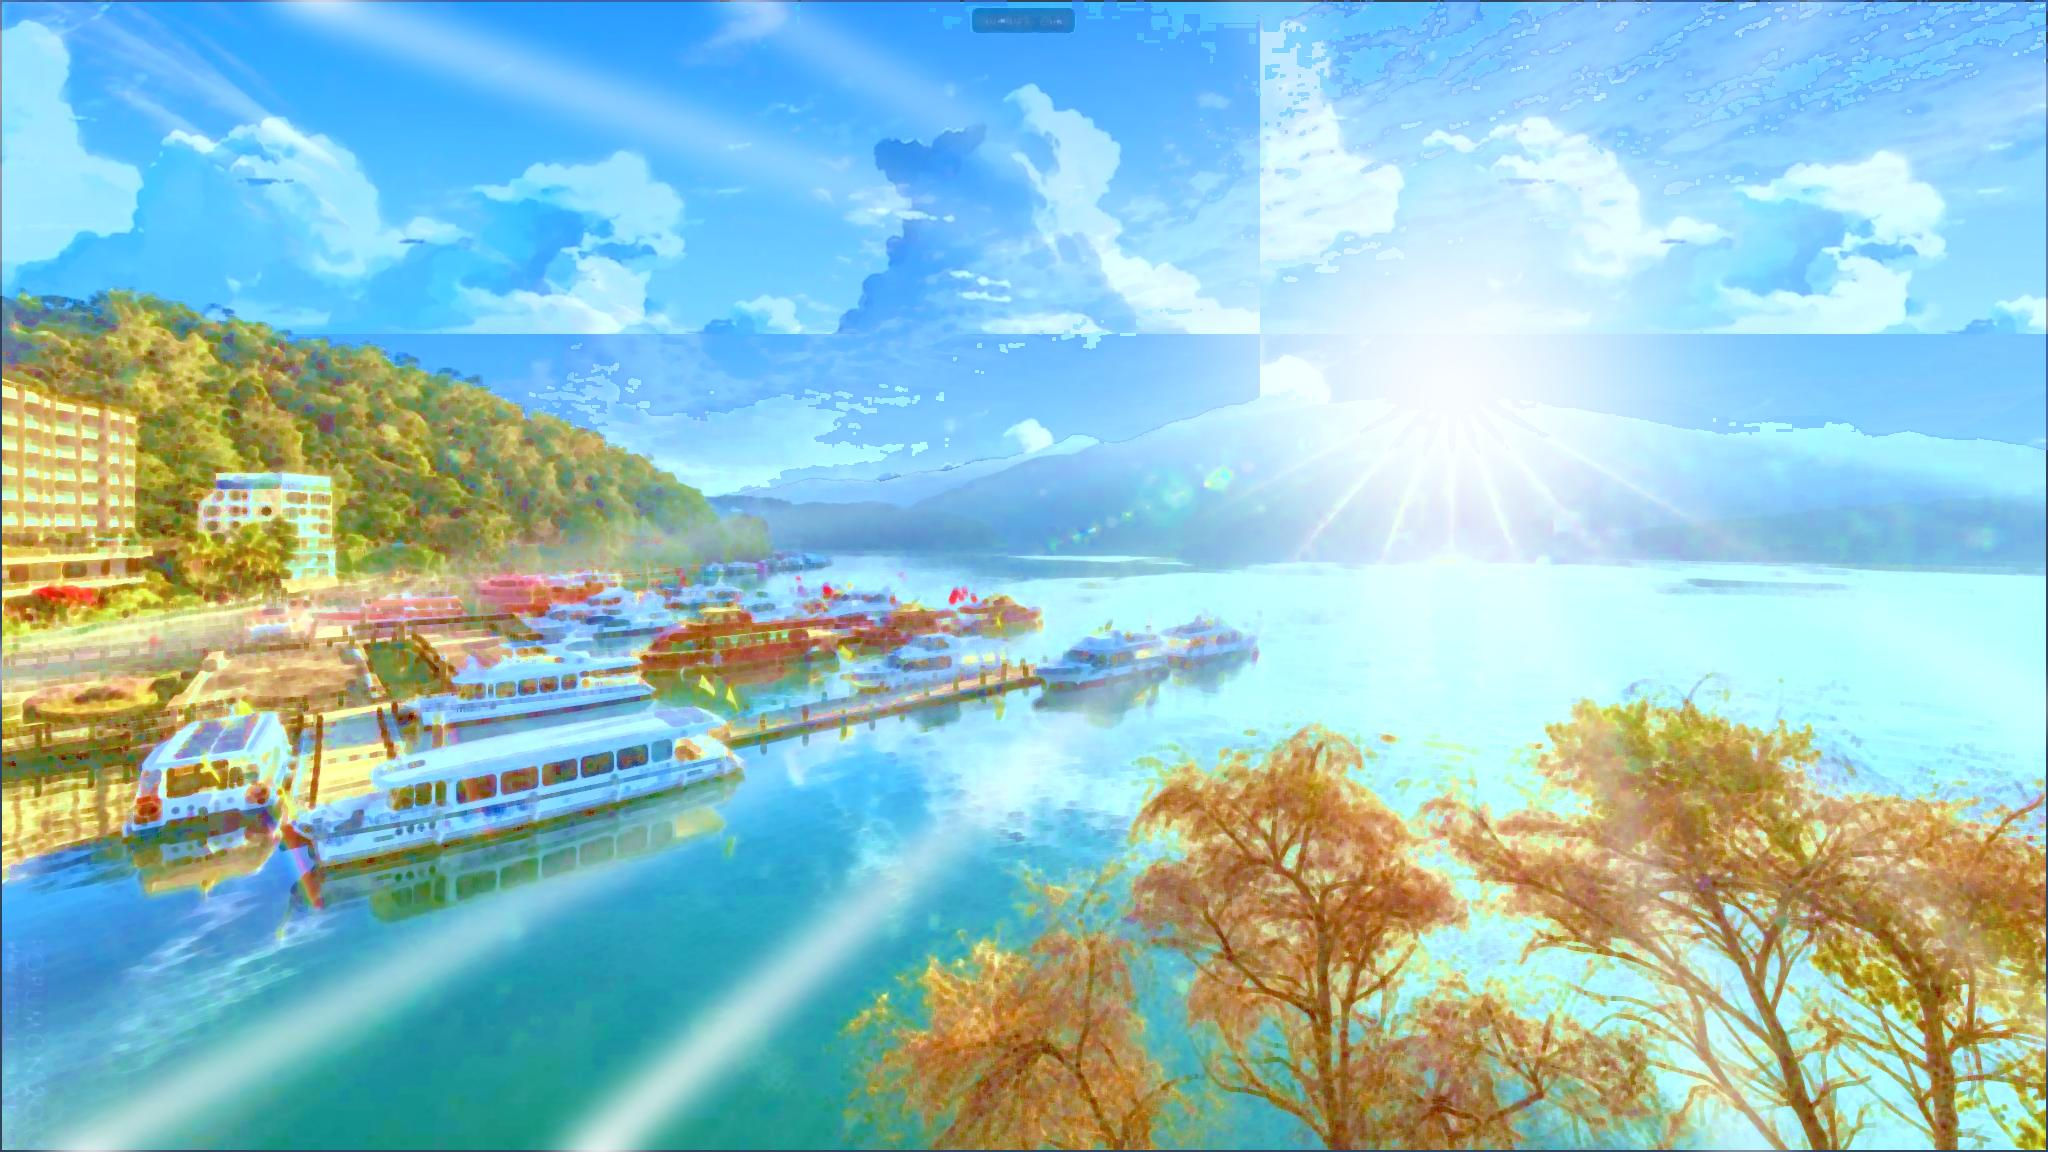
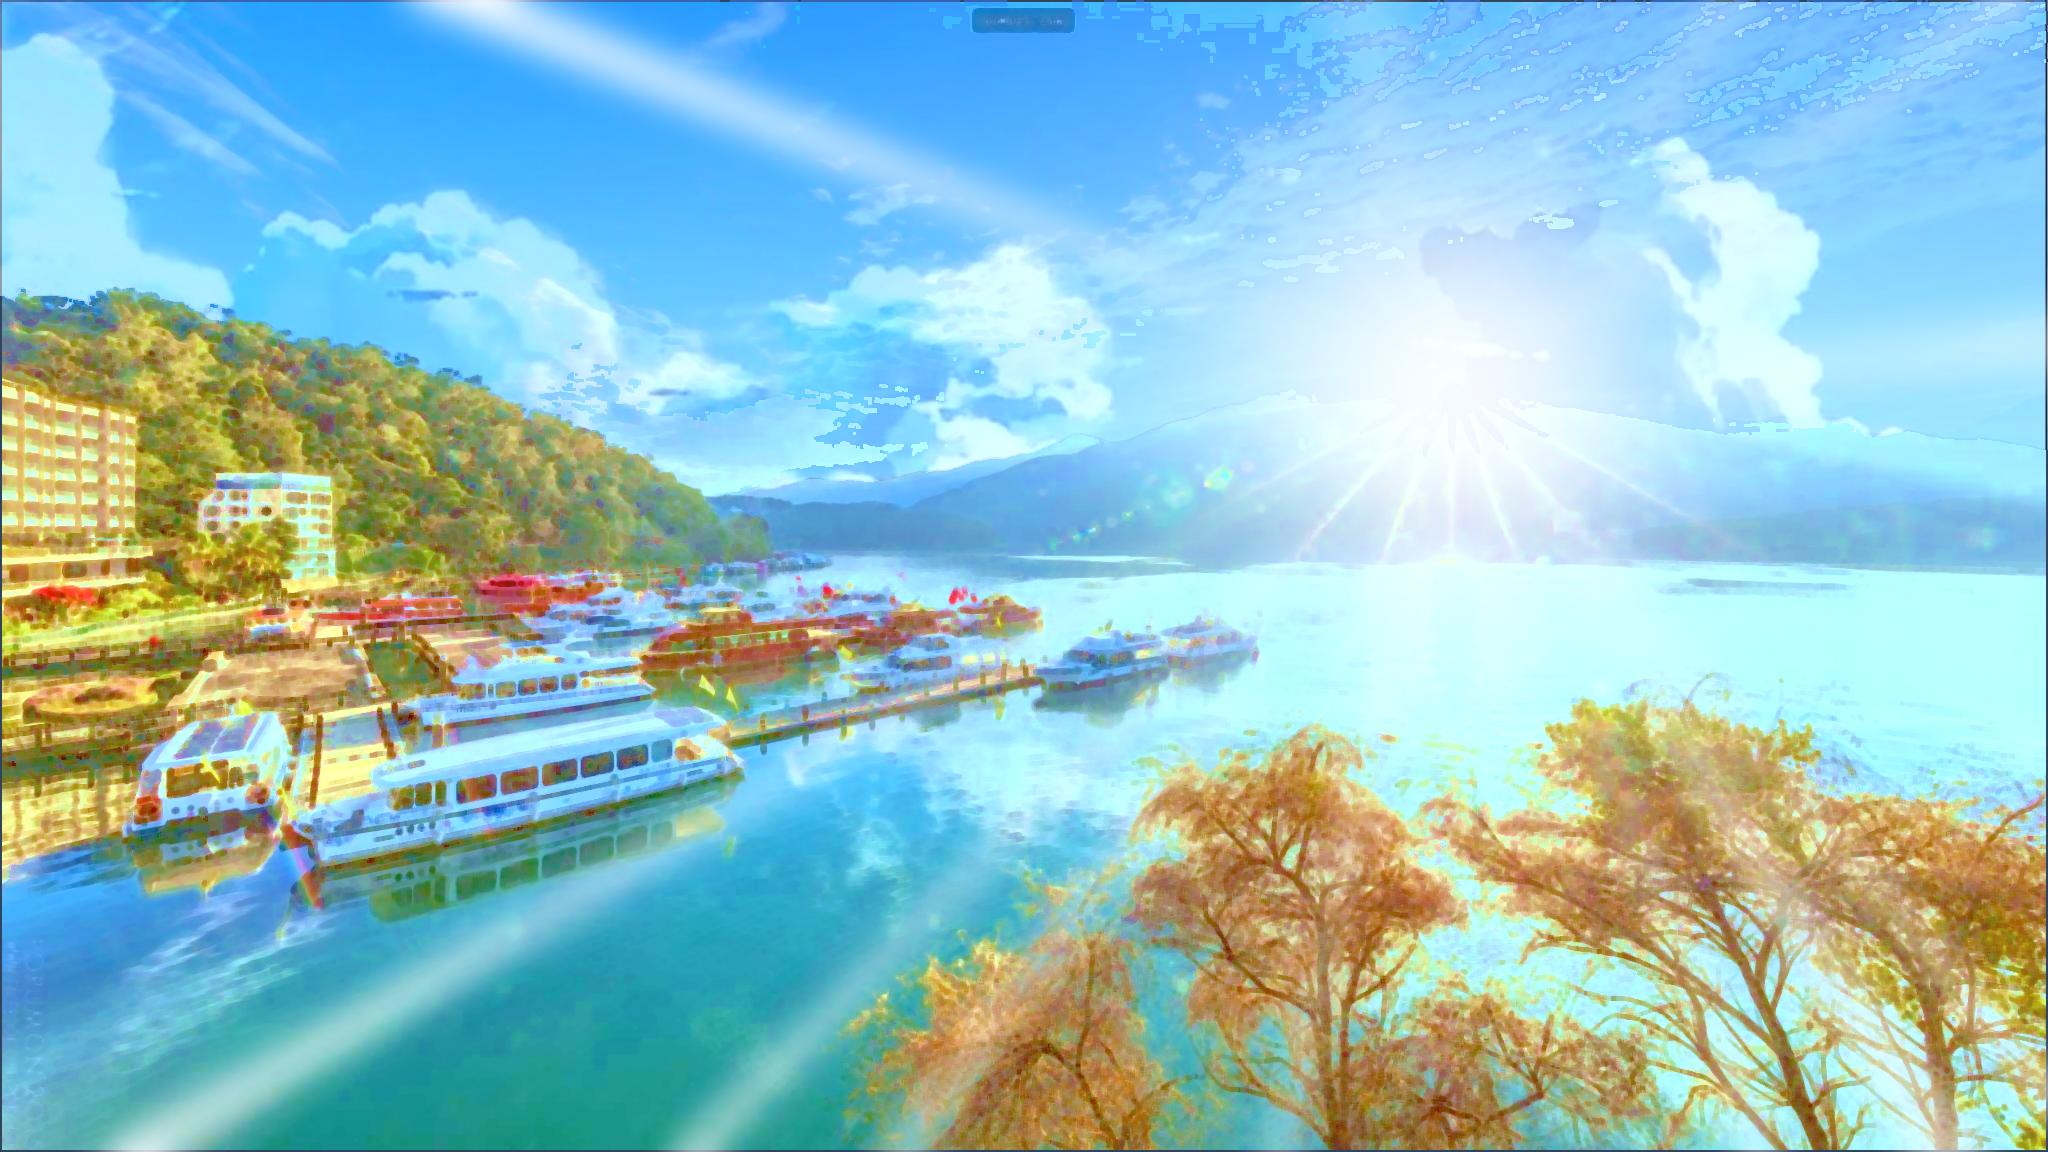
update paste sky

diff --git a/batch.m b/batch.m
@@ -1,48 +1,29 @@
-%UNTITLED5 Summary of this function goes here
-%   Detailed explanation goes here
 %% preparation
 close all
 
 %% choose sky & guide
 sky = im2double(imread('sky.jpg'));
 guide = im2double(imread('guide/guide10.jpg'));
-%% input1
-in = im2double(imread('input/input1.jpg'));
-out1 = unnamed(in,guide);
-out2 = pasteSky(out1,sky,findSky(in));
-%% input2
-in = im2double(imread('input/input2.jpg'));
-out1 = unnamed(in,guide);
-out2 = pasteSky(out1,sky,findSky(in));
-%% input3
-in = im2double(imread('input/input3.jpg'));
-out1 = unnamed(in,guide);
-out2 = pasteSky(out1,sky,findSky(in));
-%% input4
-in = im2double(imread('input/input4.jpg'));
-out1 = unnamed(in,guide);
-out2 = pasteSky(out1,sky,findSky(in));
-%% input5
-in = im2double(imread('input/input5.jpg'));
-out1 = unnamed(in,guide);
-out2 = pasteSky(out1,sky,findSky(in));
-%% input6
-in = im2double(imread('input/input6.jpg'));
-out1 = unnamed(in,guide);
-out2 = pasteSky(out1,sky,findSky(in));
-%% input7
-in = im2double(imread('input/input7.jpg'));
-out1 = unnamed(in,guide);
-out2 = pasteSky(out1,sky,findSky(in));
-%% input8
-in = im2double(imread('input/input8.jpg'));
-out1 = unnamed(in,guide);
-out2 = pasteSky(out1,sky,findSky(in));
-%% input9
-in = im2double(imread('input/input9.jpg'));
-out1 = unnamed(in,guide);
-out2 = pasteSky(out1,sky,findSky(in));
-%% input10
-in = im2double(imread('input/input10.jpg'));
-out1 = unnamed(in,guide);
-out2 = pasteSky(out1,sky,findSky(in));
+%% input
+input1 = im2double(imread('input/input1.jpg'));
+input2 = im2double(imread('input/input2.jpg'));
+input3 = im2double(imread('input/input3.jpg'));
+input4 = im2double(imread('input/input4.jpg'));
+input5 = im2double(imread('input/input5.jpg'));
+input6 = im2double(imread('input/input6.jpg'));
+input7 = im2double(imread('input/input7.jpg'));
+input8 = im2double(imread('input/input8.jpg'));
+input9 = im2double(imread('input/input9.jpg'));
+input10 = im2double(imread('input/input10.jpg'));
+
+%% filtering
+output1 = ShinkaiMakotoFilter(input1, guide, sky);
+output2 = ShinkaiMakotoFilter(input2, guide, sky);
+output3 = ShinkaiMakotoFilter(input3, guide, sky);
+output4 = ShinkaiMakotoFilter(input4, guide, sky);
+output5 = ShinkaiMakotoFilter(input5, guide, sky);
+output6 = ShinkaiMakotoFilter(input6, guide, sky);
+output7 = ShinkaiMakotoFilter(input7, guide, sky);
+output8 = ShinkaiMakotoFilter(input8, guide, sky);
+output9 = ShinkaiMakotoFilter(input9, guide, sky);
+output10 = ShinkaiMakotoFilter(input10, guide, sky);

diff --git a/ShinkaiMakotoFilter.m b/ShinkaiMakotoFilter.m
@@ -1,0 +1,68 @@
+function [ light ] = ShinkaiMakotoFilter( src, target, sky )
+
+    % Summary - function version
+    
+    % preparation
+    [M, N, C] = size(src);
+
+    % Step1: median filtering
+    fprintf('\nStep1: median filtering\n');
+    blur = changeStyle(src, M*N);
+
+    % Step2: color transfer (guide)
+    fprintf('\nStep2: color transfer\n');
+    color = cf_reinhard(blur, target);
+
+    % Step3: adjust (saturation, brightness)
+    fprintf('\nStep3: adjust\n');
+    adjust = adjustHSV(color);
+
+    % Step4: paste sky (sky)
+    fprintf('\nStep4: paste sky\n');
+    [skyMask, mask_threshold, mask_dilate, mask_erode] = findSky(src);
+    changeSky = pasteSky(adjust, sky, skyMask);
+
+    % Step5: add light (light source)
+    fprintf('\nStep5: add light\n');
+    [light, light_filter] = addLight(src, changeSky, M, N);
+
+    % show
+    figure
+    imshow(src);
+    title('src');
+    figure
+    imshow(blur);
+    title('Step1: median filtering');
+    figure
+    imshow(target)
+    title('guide');
+    figure
+    imshow(color);
+    title('Step2: color transform');
+    figure
+    imshow(adjust);
+    title('Step3: adjust');
+    figure;
+    imshow(mask_threshold);
+    title('Step4-1: threshold');
+    figure;
+    imshow(mask_dilate);
+    title('Step4-2: dilation');
+    figure;
+    imshow(mask_erode);
+    title('Step4-3: erosion');
+    figure;
+    imshow(skyMask);
+    title('Step4-3: sky mask');
+    figure
+    imshow(changeSky);
+    title('Step4: paste sky');
+    figure
+    imshow(light_filter)
+    title('light filter');
+    figure
+    imshow(light)
+    title('Step5: add light');
+
+end
+

diff --git a/pasteSky.m b/pasteSky.m
@@ -1,20 +1,50 @@
-function output = pasteSky(input,sky,skyMask)
-%UNTITLED4 Summary of this function goes here
-%   Detailed explanation goes here
-[m,n,~] = size(input);
-[m1,n1,~] = size(sky);
-output = input;
-LALPH = 0.5;
-for i=1:m
-    for j=1:n
-        if skyMask(i,j) == 1
-            output(i,j,:) = sky(mod(i,m1)+1,mod(j,n1)+1,:)*LALPH + input(i,j,:)*(1-LALPH);
+function [ output ] = pasteSky( input, sky, skyMask )
+    
+    % Summary - paste shinkai makoto style sky
+    
+    % preparation
+    [m,n,~] = size(input);
+    [m1,n1,~] = size(sky);
+    [m2,n2,~] = size(skyMask);
+    output = input;
+    LALPH = 0.5;
+    
+    % paste
+    for i=1:m2
+        if (max(skyMask(i,:)==1))
+            a1 = i;
+            break;
         end
     end
-end
-
-figure;
-imshow(output);
-title('Step5: paste sky');
+    for i=m2:-1:1
+        if (max(skyMask(i,:)==1))
+            a2 = i;
+            break;
+        end
+    end
+    for j=1:n2
+        if (max(skyMask(:,j)==1))
+            b1 = j;
+            break;
+        end
+    end
+    for j=n2:-1:1
+        if (max(skyMask(:,j)==1))
+            b2 = j;
+            break;
+        end
+    end
+    theta = 0;scale = max((a2-a1)/m1,(b2-b1)/n1);
+    tform = affine2d([scale*cosd(theta) -scale*sind(theta) 0; scale*sind(theta) scale*cosd(theta) 0; 0 0 1]);
+    sky = imwarp(sky,tform);
+    [m1,n1,~] = size(sky);
+    for i=1:m
+        for j=1:n
+            if skyMask(i,j) == 1
+                output(i,j,:) = sky(mod(i,m1)+1,mod(j,n1)+1,:)*LALPH + input(i,j,:)*(1-LALPH);
+            end
+        end
+    end
+    
 end
 

diff --git a/final.m b/final.m
@@ -24,7 +24,8 @@ adjust = adjustHSV(color);
 
 %% Step4: paste sky (sky)
 fprintf('\nStep4: paste sky\n');
-changeSky = pasteSky(adjust, sky, findSky(src));
+[skyMask, mask_threshold, mask_dilate, mask_erode] = findSky(src);
+changeSky = pasteSky(adjust, sky, skyMask);
 
 %% Step5: add light (light source)
 fprintf('\nStep5: add light\n');
@@ -46,6 +47,18 @@ title('Step2: color transform');
 figure
 imshow(adjust);
 title('Step3: adjust');
+figure;
+imshow(mask_threshold);
+title('Step4-1: threshold');
+figure;
+imshow(mask_dilate);
+title('Step4-2: dilation');
+figure;
+imshow(mask_erode);
+title('Step4-3: erosion');
+figure;
+imshow(skyMask);
+title('Step4-3: sky mask');
 figure
 imshow(changeSky);
 title('Step4: paste sky');
@@ -60,6 +73,9 @@ title('Step5: add light');
 imwrite(blur, 'Step1_median_filtering.jpg');
 imwrite(color, 'Step2_color_transfer.jpg');
 imwrite(adjust, 'Step3_adjust.jpg');
+imwrite(mask_threshold, 'Step4-1_threshold.jpg');
+imwrite(mask_dilate, 'Step4-2_dilation.jpg');
+imwrite(mask_erode, 'Step4-3_erosion.jpg');
 imwrite(changeSky, 'Step4_paste_sky.jpg');
-imwrite(light_filter, 'light_filter.jpg');
+imwrite(light_filter, 'Step5-1_light_filter.jpg');
 imwrite(light, 'Step5_add_light.jpg');
